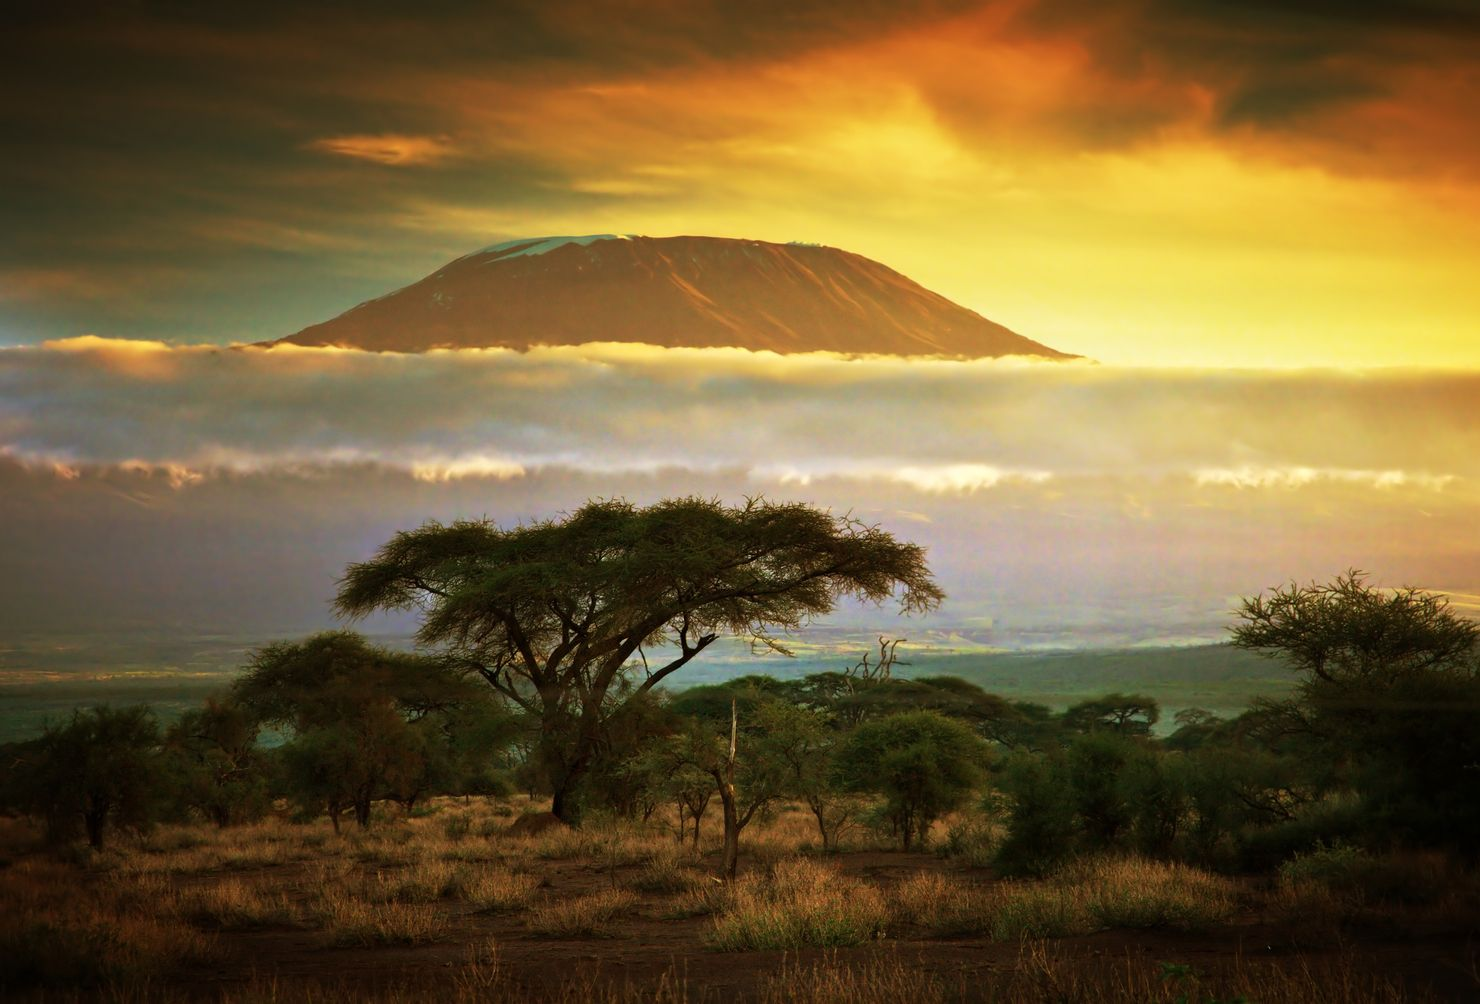
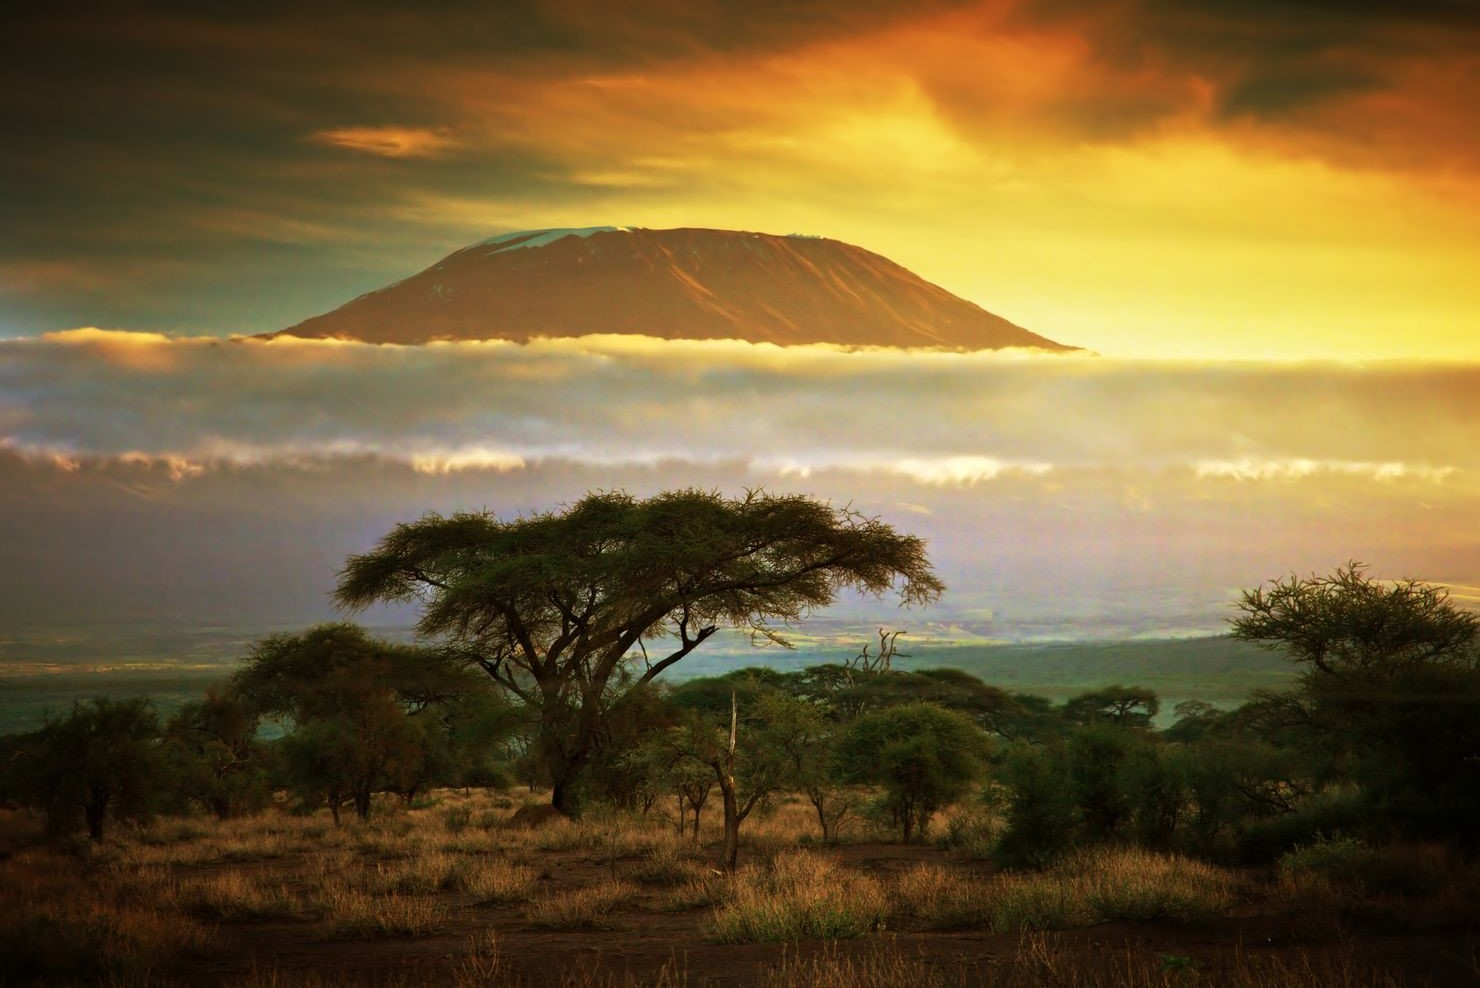
f

diff --git a/Ruaha.html b/Ruaha.html
@@ -35,34 +35,34 @@
         <div class="mezzo">
             <div class="ptesto">
                 <a class="titoli2">- Ruaha -</a>
-                <h1 class="titoli1">Aurora Boreale, sole a mezzanotte e cattedrali di ghiaccio</h1>
+                <h1 class="titoli1">Natura incontaminata e non esplorata</h1>
                 <a class="titoli2">Se ami i paesaggi tra il reale e il fantastico questo è il posto che noi abbiamo scelto per te</a>
             </div>
             <div class="offerte">
-                <h1 class="h2of">Parti per Tromsø con le nostre offerte ✈ </h1>
+                <h1 class="h2of">Parti per la valle del Ruaha con le nostre offerte ✈ </h1>
                 <div class="of1">
-                    <h1 class="titolopacchetti">Fiordi, balene e aurora boreale</h1>
-                    <p class="ulof">Novembre, dicembre e gennaio sono mesi speciali nella zona di Tromsø perché 400 orche e 100 balene megattere mostrano la loro presenza durante il giorno mentre di notte appare la magica aurora boreale che molte perone ammirano.</p>
-                    <p class="ulof">Partecipa a un tour tutto incluso di 30 ore, in cui ti porteremo in giro, ti faremo vedere le balene da un gommone e ti accompagneremo a un lavvo con il tetto di cristallo dove avrai la possibilità di vedere l’aurora boreale.</p>
+                    <h1 class="titolopacchetti">Safari lunghe le rive del grande Ruaha</h1>
+                    <p class="ulof">Nella stagione delle piogge la valle del Ruaha si riempie di acqua facendo si che la fauna e la floara si risveglino ed escano all'aperto.</p>
+                    <p class="ulof">Partecipa a un tour tutto incluso di 3 ore, in cui ti porteremo lungo le rive del fiume, ti faremo vedere le belve da vicino SENZA PERICOLO e ti faremo osservare tutto ciò che la vegetazione può offrire</p>
                     <h3>Incluso nel Pacchetto</h3>
                     <table>
                         <tr>
-                            <td class="trmezzo">safari alle balene in RIB</td>
-                            <td>pernottamento in un lavvo di cristallo privato</td>
+                            <td class="trmezzo">safari lunge le rive del Ruaha</td>
+                            <td>pernottamento in tende apposite</td>
                         </tr>
                         <tr>
                             <td class="trmezzo">pasti</td>
                             <td>trasporti</td>
                         </tr>
                         <tr>
-                            <td class="trmezzo">tuta termica galleggiante</td>
-                            <td>Palestra interna</td>
+                            <td class="trmezzo">attrezzatura per eventuali infortuni</td>
+                            <td>Possibilità di uscita notturna</td>
                         </tr>
                     </table>
-                    <h2 class="costo">da. 380 €</h2>
+                    <h2 class="costo">da. 500 €</h2>
                 </div>
                 <div class="of1">
-                    <h1 class="titolopacchetti">Sleddog e caccia all’aurora boreale</h1>
+                    <h1 class="titolopacchetti">Kigelia Ruaha</h1>
                     <p class="ulof">Partecipa a due delle attività più popolari a Tromsø e parti con una slitta trainata da cani di giorno e a caccia dell’aurora boreale di notte.</p>
                     <p class="ulof">Al Tromsø Villmarkssenter puoi scegliere se guidare tu stesso la muta di cani (età minima 16 anni) o se andare con una delle nostre guide esperte. Dopo pranzo tornerai a Tromsø, dove avrai qualche ora libera prima che un esperto di aurora boreale ti porti a caccia di una delle sette meraviglie della natura. Puoi anche partecipare ai due tour in giorni diversi se preferisci.</p>
                     <h3>Incluso nel Pacchetto</h3>
@@ -83,7 +83,7 @@
                     <h2 class="costo">da: 275 €</h2>
                 </div>
                 <div class="of1">
-                    <h1 class="titolopacchetti">aurora boreale e motoslitte</h1>
+                    <h1 class="titolopacchetti">Jongomero Camp</h1>
                     <p class="ulof">Quando si tratta di organizzare un’escursione per vedere l’aurora boreale ci sono molti diversi tipi di tour tra cui scegliere. Sia che tu voglia ammirare le luci del nord in compagnia dei tuoi amici, con l’amore della tua vita o mentre vai in esplorazione della fauna artica, il tutto in un ambiente naturale spettacolare, c’è un tour che fa per te!</p>
                     <p class="ulof">Da fine agosto a inizio aprile ci sono ottime possibilità di ammirare la verde Aurora che danza nel cielo, se fuori è buio e il tempo è sereno. Questo noi te lo permettiamo pure con l'ausilio di potenti e divertenti motoslitte </p>
                     <h3>Incluso nel Pacchetto</h3>

diff --git a/Kilimanjaro.html b/Kilimanjaro.html
@@ -159,7 +159,7 @@
             </div>
             <div class="divimg">
                 <div class="dids1">
-                    <img class="image1" src="img/immaginiNorvegia/nimg1.jpg" alt="immagine luoghi">
+                    <img class="image1" src="img/immaginiKilimanjaro/kimg1.jpg" alt="immagine luoghi">
                     <h2 class="h2dids">Poter vivere l’esperienza degli incredibili colori che si muovono nel cielo artico è sulla lista dei desideri di molti viaggiatori. Pochi posti al mondo offrono così tanti modi per ammirare l’aurora boreale come la Norvegia.</h2>
                     <p class="ulof1">Cos’è l’aurora boreale? A un livello molto elementare l’aurora boreale è piuttosto semplice da spiegare. È creata dalla collisione tra particelle cariche di elettricità provenienti dal sole che penetrano nell’atmosfera terrestre. Le luci appaiono di notte quando il cielo è buioSono come un balletto celestiale di luci che danzano nel cielo notturno, con una tavolozza di colori - verdi rosa e viola - che ricordano una fantastica sfilata di moda anni ’80.</p>
                 </div>
